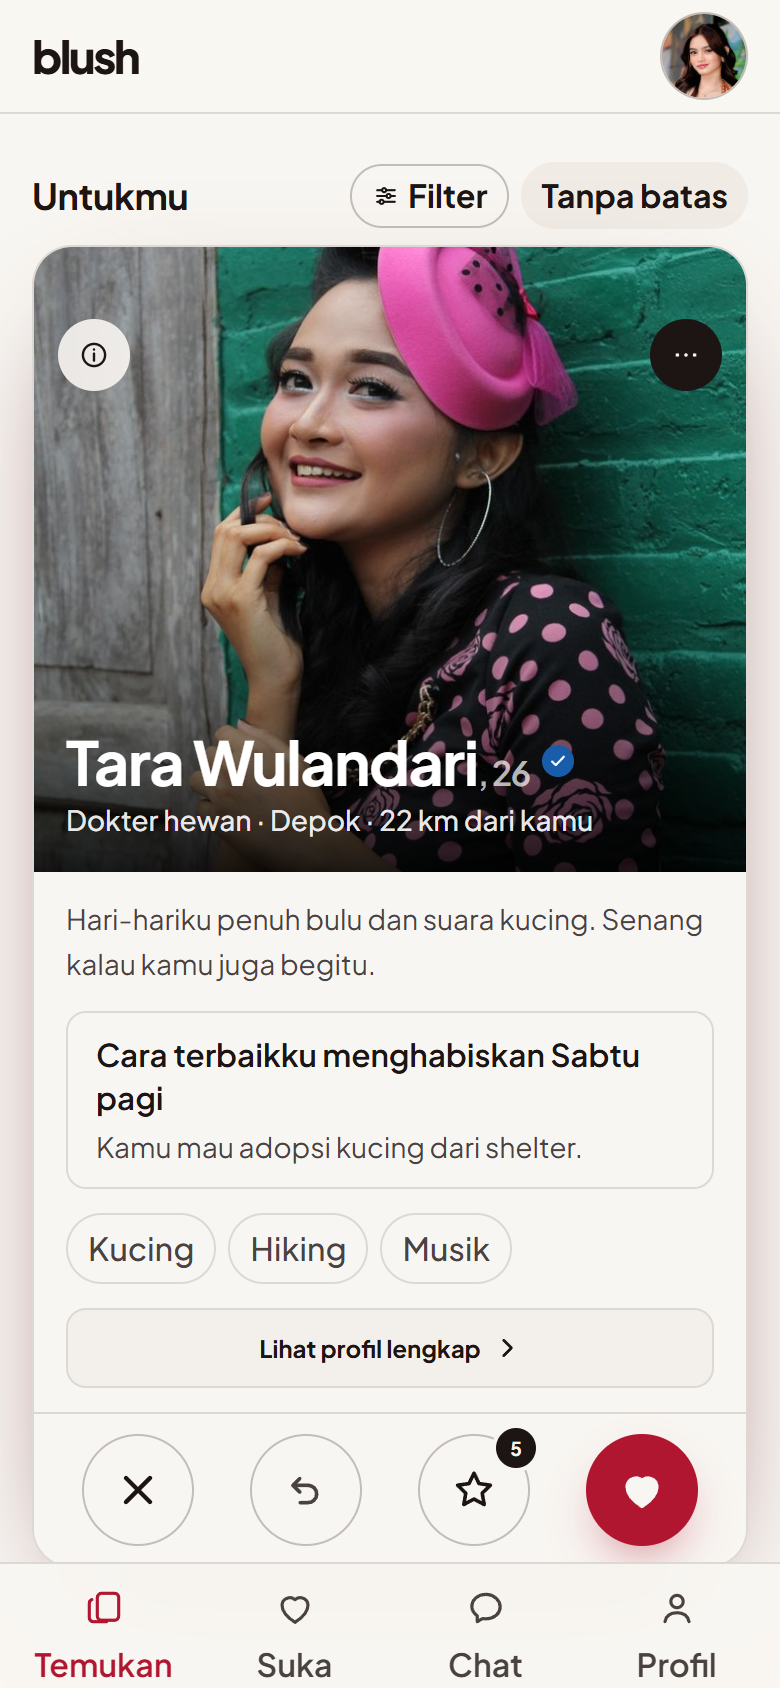
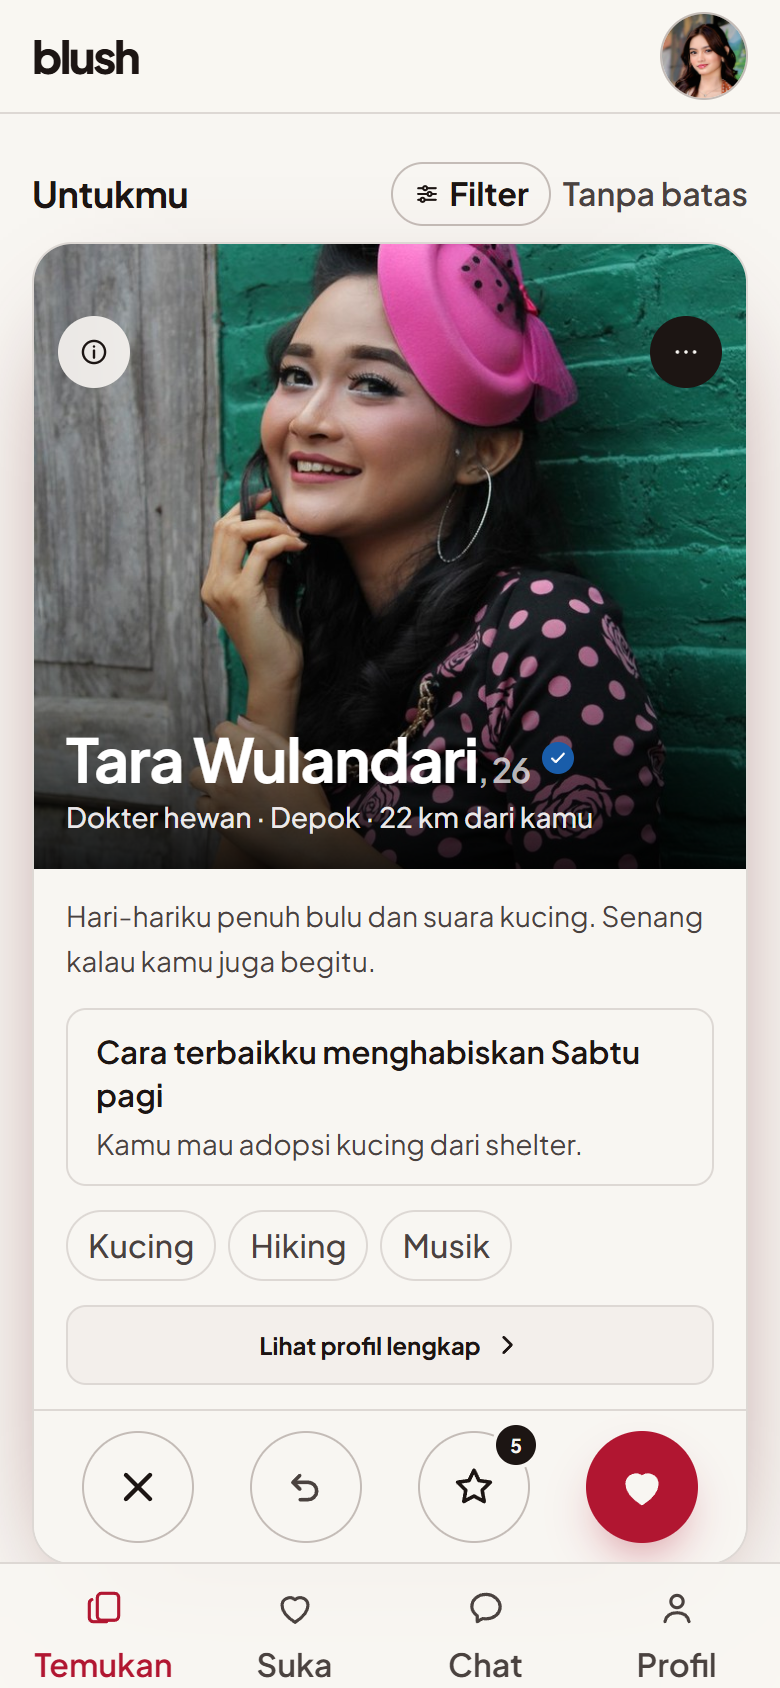
Rapikan sheet profil dan header deck

diff --git a/src/components/ProfileSheet.tsx b/src/components/ProfileSheet.tsx
@@ -124,8 +124,8 @@ export default function ProfileSheet({
               </button>
             </div>
 
-            <div className="overflow-y-auto overscroll-contain">
-              <div className="relative aspect-[4/5] w-full bg-paper-2">
+            <div className="min-h-0 flex-1 overflow-y-auto overscroll-contain">
+              <div className="relative aspect-[4/5] max-h-[42dvh] w-full bg-paper-2">
                 {photos[photo] ? (
                   // eslint-disable-next-line @next/next/no-img-element
                   <img src={photos[photo]} alt={`Foto ${candidate.display_name} ${photo + 1}`} className="h-full w-full object-cover" />
@@ -160,7 +160,7 @@ export default function ProfileSheet({
                 ) : null}
               </div>
 
-              <div className="flex flex-col gap-3 px-4 py-4">
+              <div className="flex flex-col gap-3 px-4 pb-6 pt-4">
                 <div className="flex flex-wrap gap-1.5">
                   <Chip icon="sparkles" text={INTENT[candidate.intent] ?? "Lagi cari"} />
                   {candidate.distance_m !== null ? <Chip icon="location" text={distanceLabel(candidate.distance_m)} /> : null}

diff --git a/src/components/SwipeDeck.tsx b/src/components/SwipeDeck.tsx
@@ -554,15 +554,15 @@ export default function SwipeDeck({
             Filter
           </button>
           <span
-            className={`rounded-[999px] bg-paper-2 px-2.5 py-1 text-2xs font-bold ${
-              likesLeft === 0 ? "text-blush-deep" : "text-ink"
+            className={`whitespace-nowrap text-2xs font-semibold ${
+              likesLeft === 0 ? "text-blush-deep" : "text-ink-soft"
             }`}
           >
             {unlimited ? (
               "Tanpa batas"
             ) : (
               <span className="whitespace-nowrap">
-                <CountUp value={likesLeft} /> like
+                Sisa <CountUp value={likesLeft} /> like
               </span>
             )}
           </span>
